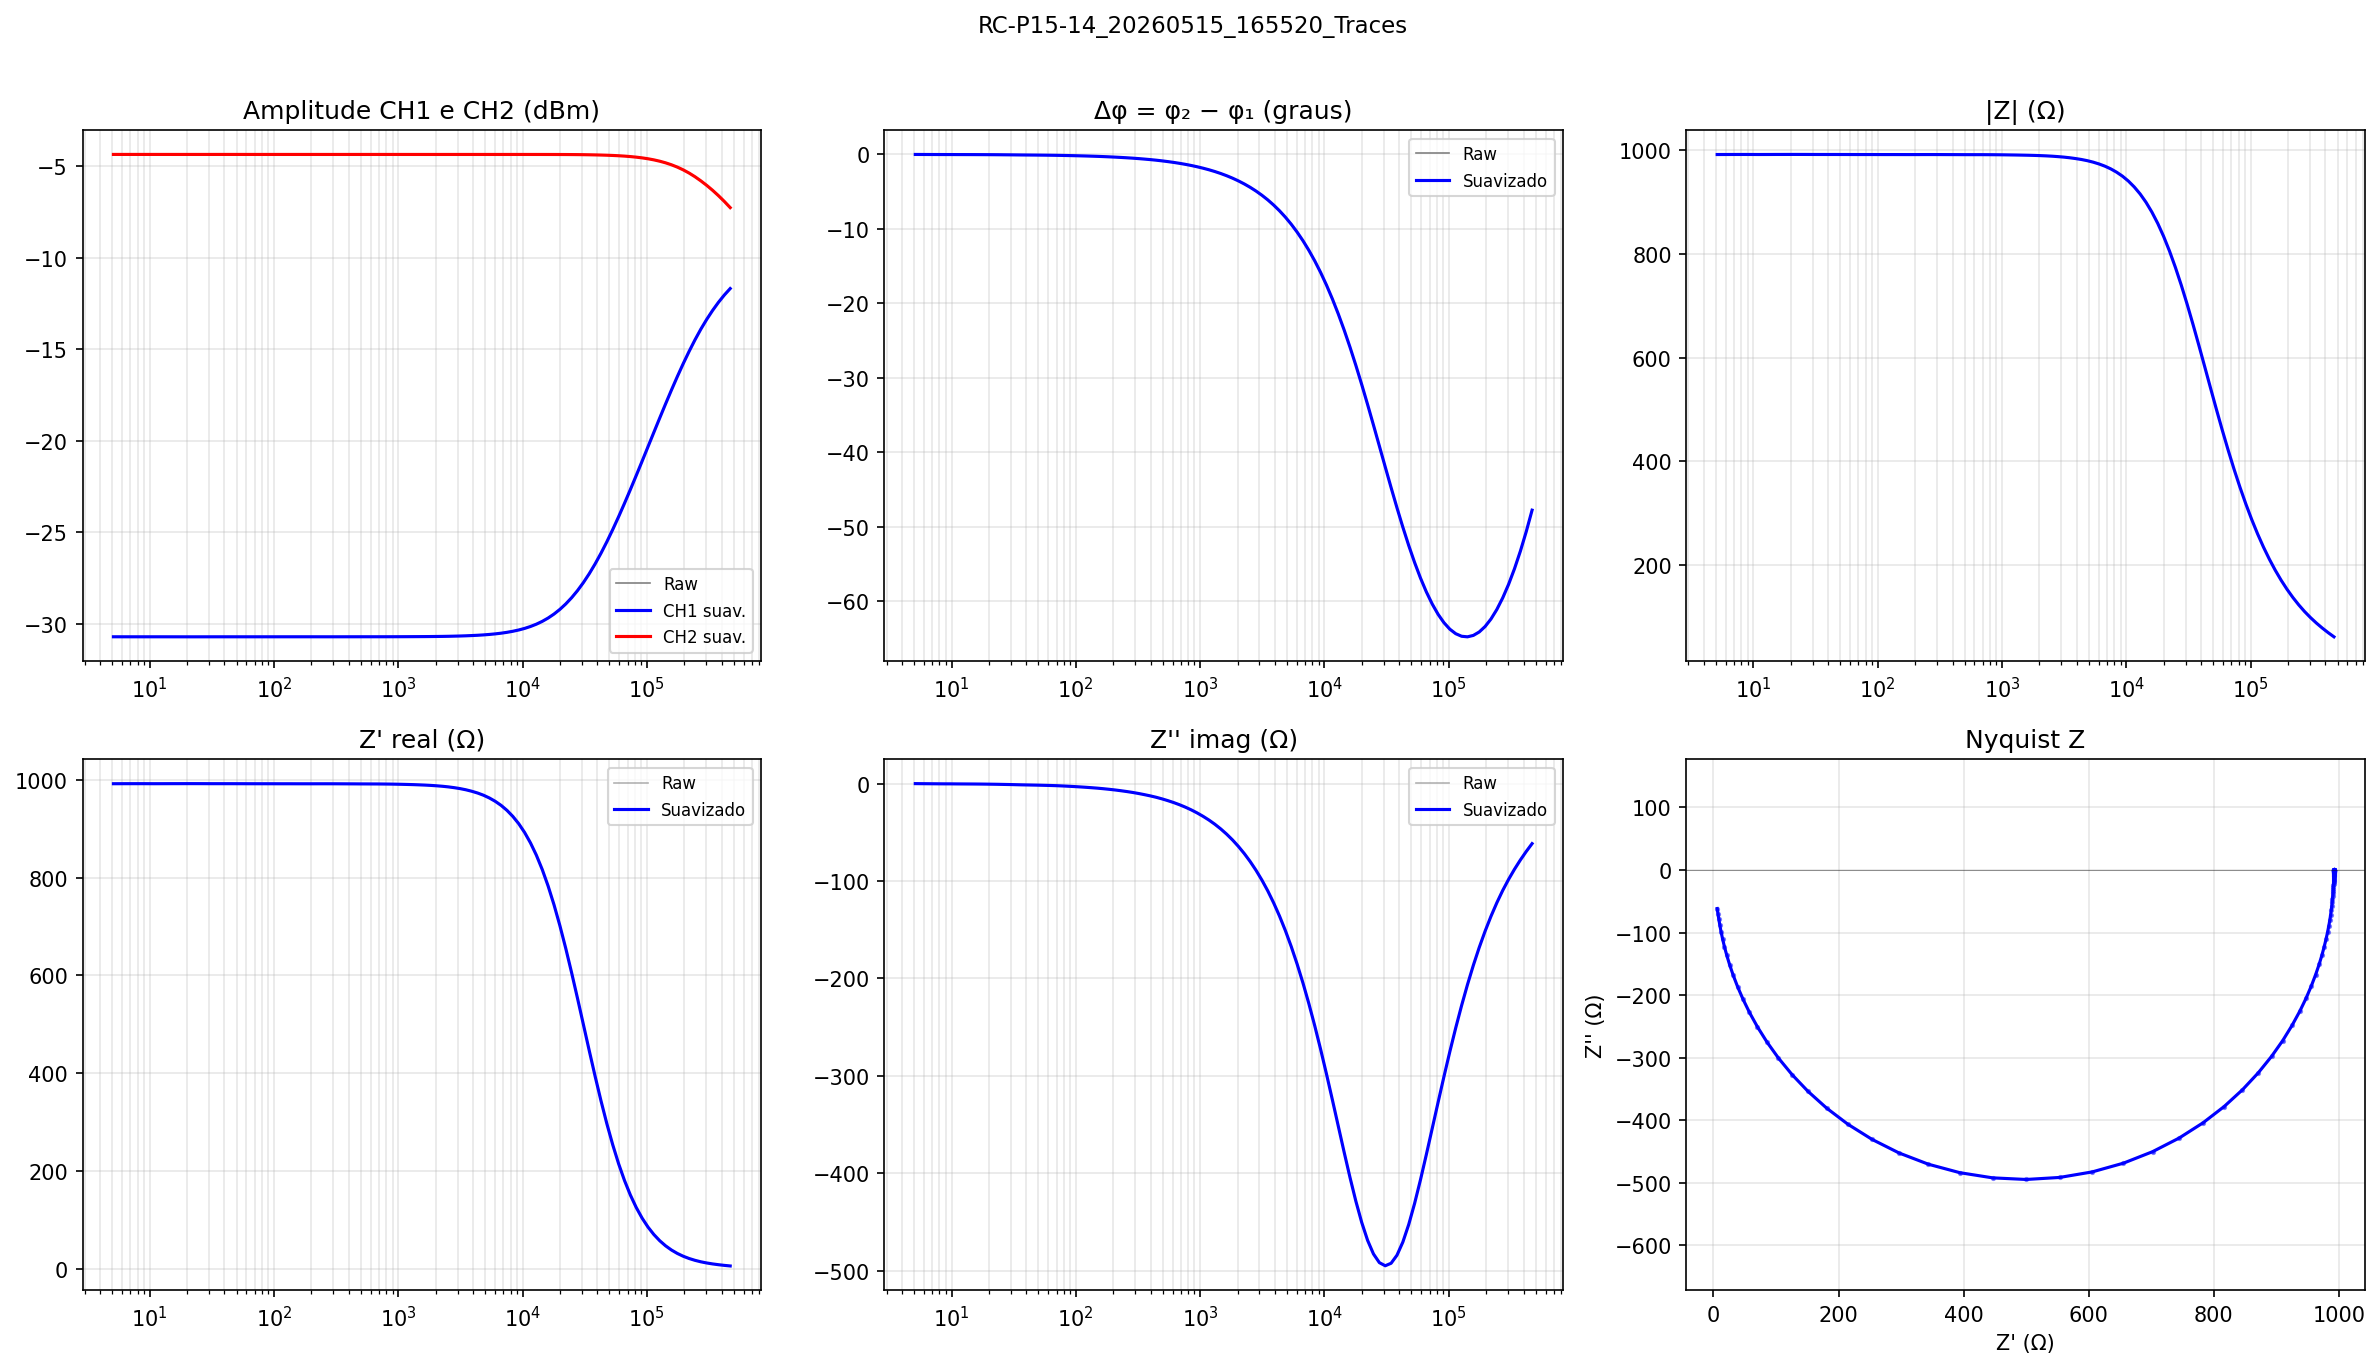
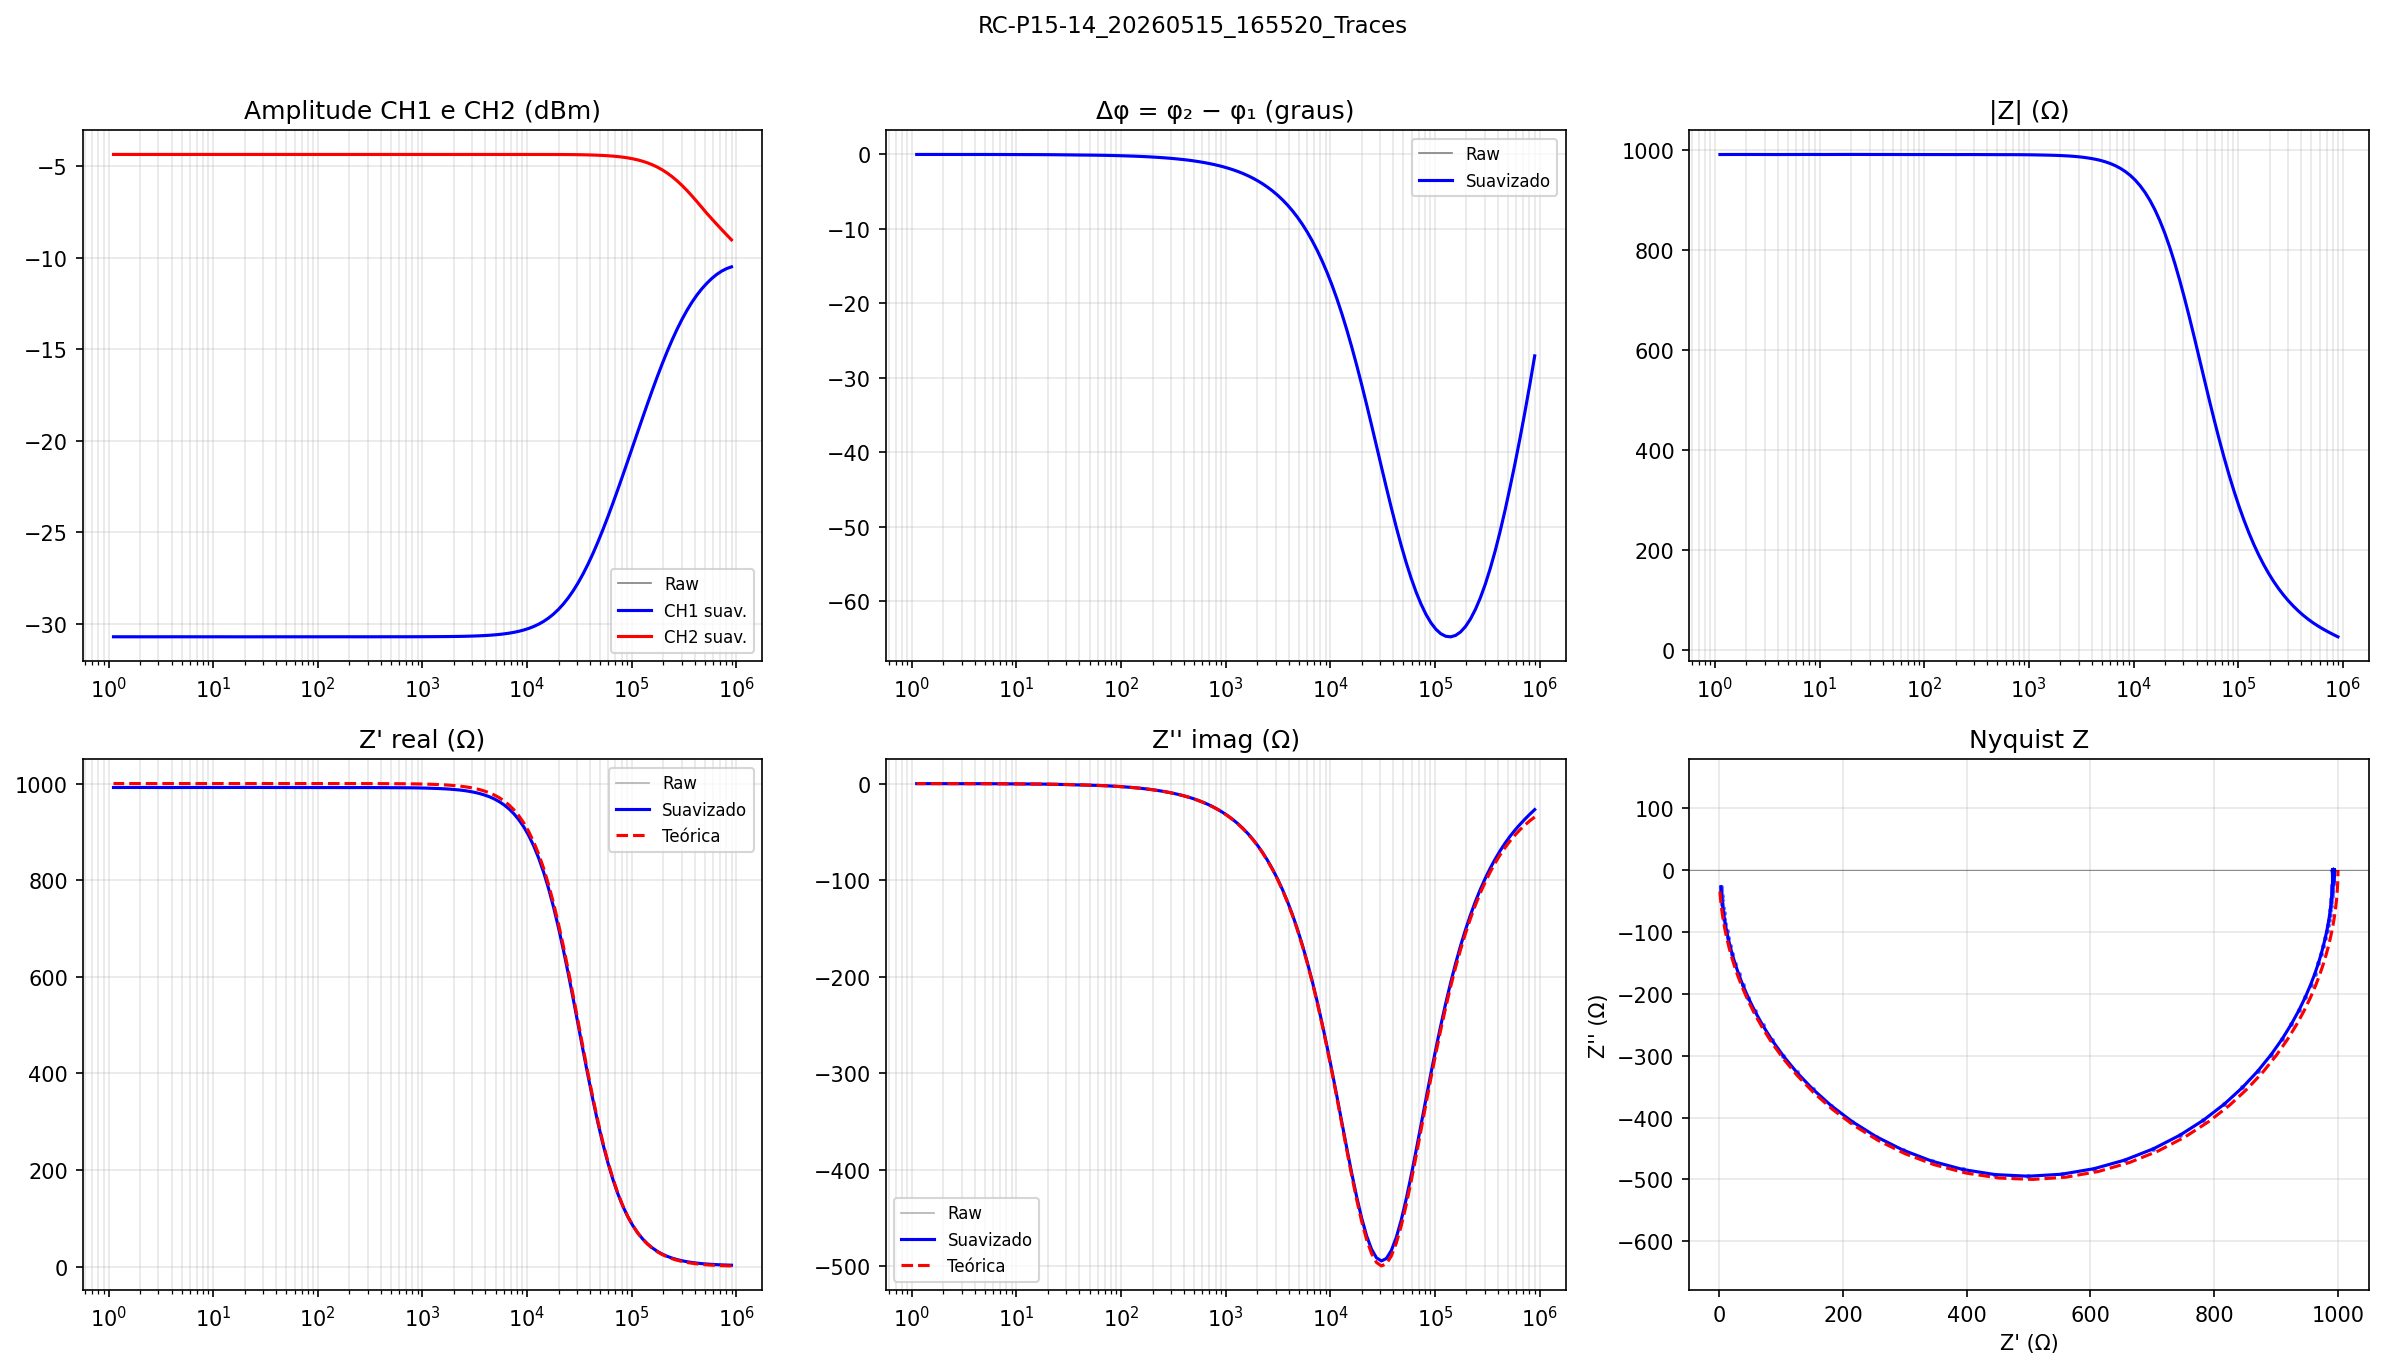
comparação com curva teórica

diff --git a/savgol_filter.py b/savgol_filter.py
@@ -64,6 +64,15 @@ def post_processing(file_name, sg_window=11, sg_poly=2, freq_min=None, freq_max=
         z_mod = np.sqrt(z_r**2 + z_i**2)
         z_ang = np.degrees(np.arctan2(z_i, z_r))
 
+        # --- Impedância teórica do RC ---
+        r = 1e3
+        c = 5.1e-9
+        n = 1 # harmonic number
+        freq_read = n * freq
+        denom = 1 + 4 * (np.pi**2) * (freq_read**2) * (r**2) * (c**2)  
+        z_rc_real = r / denom
+        z_rc_imag = -(2*np.pi*freq_read*(r**2)*c) / denom
+
         # ------------------------------------------------------------------ #
         # PLOTAGEM                                                             #
         # ------------------------------------------------------------------ #
@@ -104,6 +113,7 @@ def post_processing(file_name, sg_window=11, sg_poly=2, freq_min=None, freq_max=
         axes[1, 0].semilogx(freq, zr_raw, 'gray', lw=0.8, alpha=0.6,
                             label='Raw')
         axes[1, 0].semilogx(freq, z_r, 'b-', lw=1.5, label='Suavizado')
+        axes[1, 0].semilogx(freq, z_rc_real, 'r--', lw=1.5, label='Teórica')
         axes[1, 0].set_title("Z' real (Ω)")
         axes[1, 0].legend(fontsize=8)
         axes[1, 0].grid(True, which='both', alpha=0.3)
@@ -111,12 +121,14 @@ def post_processing(file_name, sg_window=11, sg_poly=2, freq_min=None, freq_max=
         axes[1, 1].semilogx(freq, zi_raw, 'gray', lw=0.8, alpha=0.6,
                             label='Raw')
         axes[1, 1].semilogx(freq, z_i, 'b-', lw=1.5, label='Suavizado')
+        axes[1, 1].semilogx(freq, z_rc_imag, 'r--', lw=1.5, label='Teórica')
         axes[1, 1].set_title("Z'' imag (Ω)")
         axes[1, 1].legend(fontsize=8)
         axes[1, 1].grid(True, which='both', alpha=0.3)
 
         axes[1, 2].plot(z_r, z_i, 'b-', lw=1.5)
         axes[1, 2].plot(z_r, z_i, 'b.', ms=3, alpha=0.5)
+        axes[1, 2].plot(z_rc_real, z_rc_imag, 'r--', lw=1.5)
         axes[1, 2].set_title("Nyquist Z")
         axes[1, 2].set_xlabel("Z' (Ω)")
         axes[1, 2].set_ylabel("Z'' (Ω)")
@@ -154,6 +166,6 @@ if __name__ == "__main__":
         "RC-P15-14_20260515_165520_Traces",
         sg_window=11,   # aumentar para mais suavização
         sg_poly=2,
-        freq_min=5,     # corta abaixo de 5 Hz (drift de fase)
-        freq_max=5e5,   # corta acima de 500 kHz (SNR ruim no CH1)
+        freq_min=1,     # corta abaixo de 5 Hz (drift de fase)
+        freq_max=1e6,   # corta acima de 500 kHz (SNR ruim no CH1)
     )